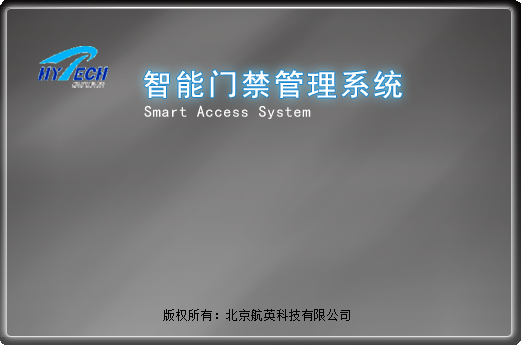
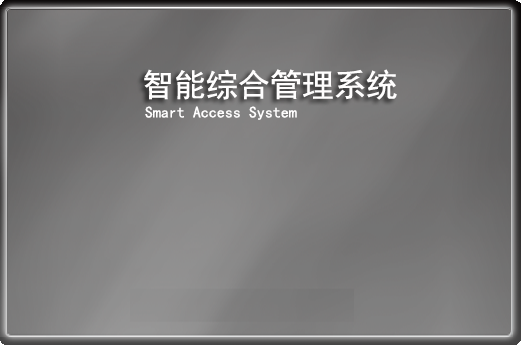
更新图片

Changed region(s): [[0.2457, 0.029, 0.952, 0.4348], [0.0, 0.029, 0.3071, 0.2609], [0.3071, 0.8986, 0.6756, 0.9275]]

diff --git a/SmartAccess/FrmMain.Designer.cs b/SmartAccess/FrmMain.Designer.cs
@@ -301,9 +301,9 @@
             this.lbTitle.ForeColor = System.Drawing.Color.DarkBlue;
             this.lbTitle.Location = new System.Drawing.Point(3, 5);
             this.lbTitle.Name = "lbTitle";
-            this.lbTitle.Size = new System.Drawing.Size(592, 49);
+            this.lbTitle.Size = new System.Drawing.Size(556, 49);
             this.lbTitle.TabIndex = 0;
-            this.lbTitle.Text = "智能卡综合管理系统，您的好管家！";
+            this.lbTitle.Text = "智能综合管理系统，您的好管家！";
             // 
             // timerClock
             // 
@@ -323,7 +323,7 @@
             this.Icon = ((System.Drawing.Icon)(resources.GetObject("$this.Icon")));
             this.Name = "FrmMain";
             this.StartPosition = System.Windows.Forms.FormStartPosition.CenterScreen;
-            this.Text = "智能卡综合管理系统";
+            this.Text = "智能综合管理系统";
             this.WindowState = System.Windows.Forms.FormWindowState.Maximized;
             this.FormClosing += new System.Windows.Forms.FormClosingEventHandler(this.FrmMain_FormClosing);
             this.Load += new System.EventHandler(this.FrmMain_Load);
